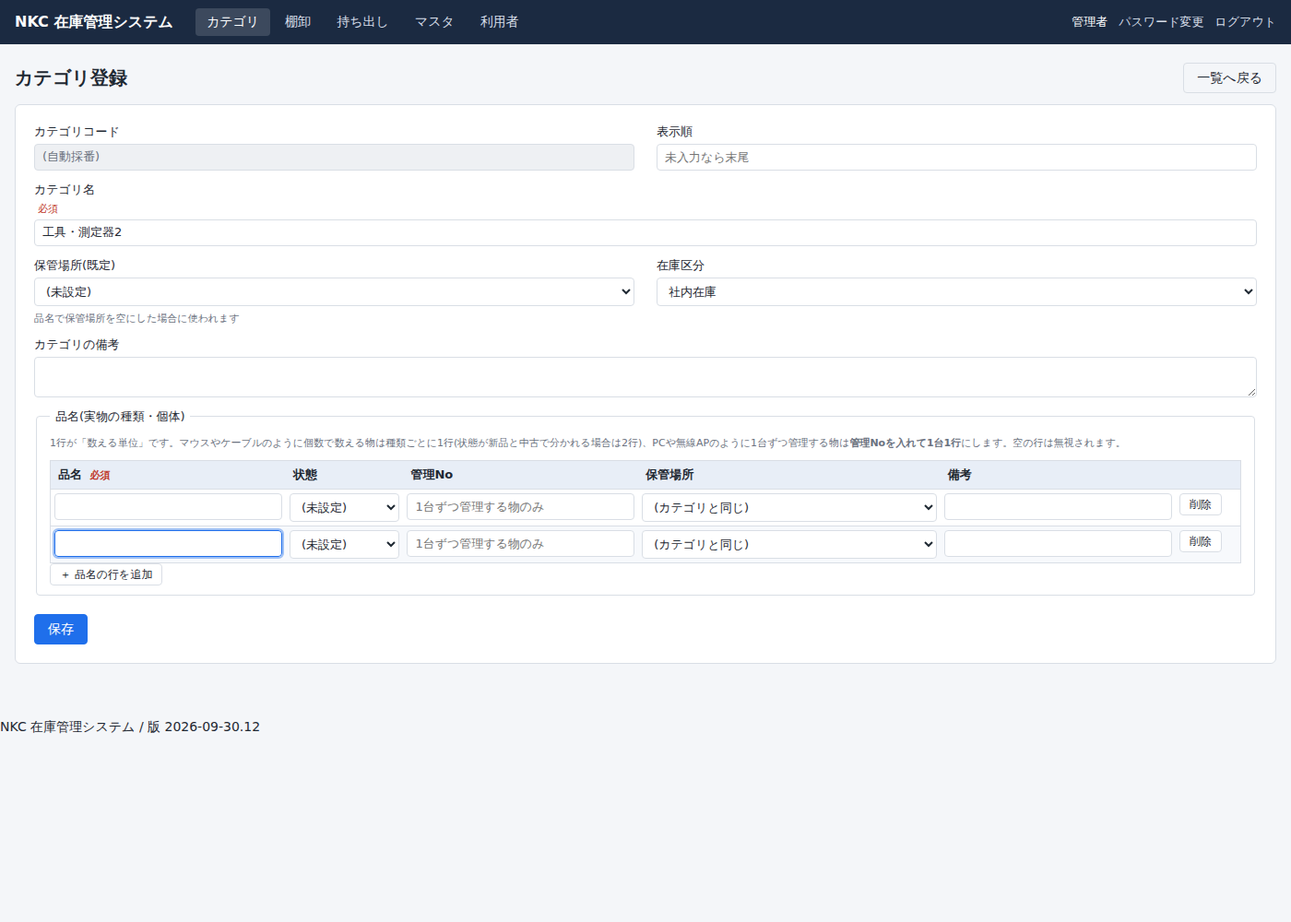
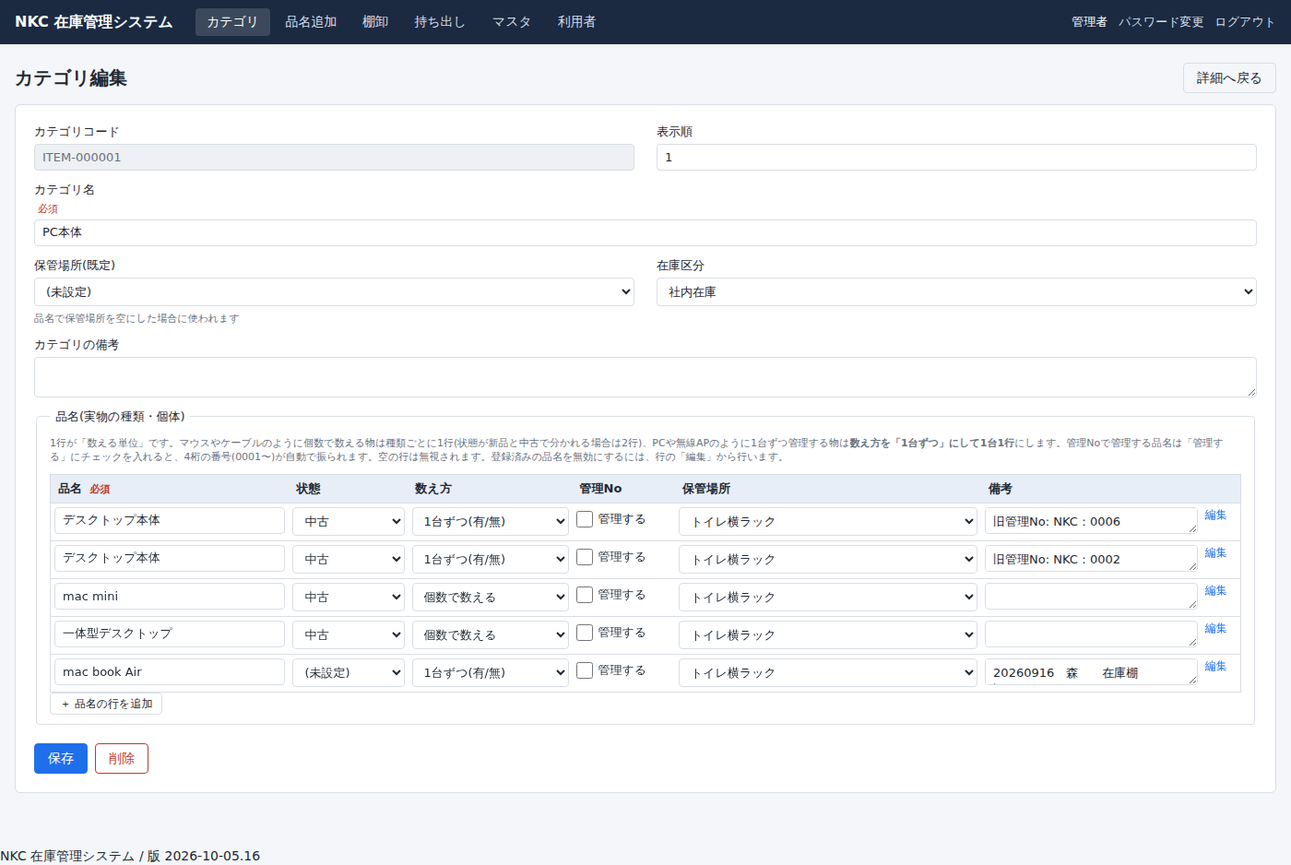
管理Noを空にし、「管理Noで管理する」チェックで4桁採番する方式に変更
- sql/009_clear_management_no.sql: 全品名の管理Noを空にし、空を許可(重複禁止は維持)
- 品名の追加・編集画面とカテゴリ登録・編集画面の品名行に「管理Noで管理する」チェック
  チェックで次の番号を自動採番、外すと番号を消す
- 表示は4桁ゼロ埋め(0001)。カテゴリ一覧の検索で「0001」のような番号でも探せる
- 版 2026-10-05.16

Claude-Session: https://claude.ai/code/session_01Ri3r8gT3MYmawSEEk5gsQq

diff --git a/webapp/assets/style.css b/webapp/assets/style.css
@@ -255,3 +255,7 @@ tr.entry-row.checked-row td:first-child { background: #e6f4ec; }
   .cards, .cards-4 { grid-template-columns: 1fr; }
   .userbox .username { display: none; }
 }
+
+/* フォーム内のチェック欄(管理Noで管理する など): チェックボックスと文言を左に並べる */
+.form-grid .inline-check, .table-units .inline-check { display: inline-flex; flex-direction: row; align-items: center; gap: 6px; width: auto; font-weight: normal; margin: 4px 0; }
+.form-grid .inline-check input[type=checkbox], .table-units .inline-check input[type=checkbox] { width: 18px; height: 18px; margin: 0; flex: none; }

diff --git a/webapp/app/views/items/form.php b/webapp/app/views/items/form.php
@@ -14,7 +14,7 @@
 
   <fieldset class="span2" id="unit-section">
     <legend>品名(実物の種類・個体)</legend>
-    <p class="hint">1行が「数える単位」です。マウスやケーブルのように個数で数える物は種類ごとに1行(状態が新品と中古で分かれる場合は2行)、PCや無線APのように1台ずつ管理する物は<strong>数え方を「1台ずつ」にして1台1行</strong>にします。管理Noは保存時に自動で振られます。空の行は無視されます。<?php if ($item['id']): ?>登録済みの品名を無効にするには、行の「編集」から行います。<?php endif; ?></p>
+    <p class="hint">1行が「数える単位」です。マウスやケーブルのように個数で数える物は種類ごとに1行(状態が新品と中古で分かれる場合は2行)、PCや無線APのように1台ずつ管理する物は<strong>数え方を「1台ずつ」にして1台1行</strong>にします。管理Noで管理する品名は「管理する」にチェックを入れると、4桁の番号(0001〜)が自動で振られます。空の行は無視されます。<?php if ($item['id']): ?>登録済みの品名を無効にするには、行の「編集」から行います。<?php endif; ?></p>
     <div class="table-wrap"><table class="table table-units" id="unit-table">
       <thead><tr><th>品名 <span class="req">必須</span></th><th>状態</th><th>数え方</th><th>管理No</th><th>保管場所</th><th>備考</th><th></th></tr></thead>
       <tbody>
@@ -23,7 +23,7 @@
           <td><input type="hidden" name="units[<?= $ri ?>][id]" value="<?= h($u['id'] ?? '') ?>"><input type="text" name="units[<?= $ri ?>][name]" value="<?= h($u['name'] ?? '') ?>" maxlength="200" class="w-name"></td>
           <td><select name="units[<?= $ri ?>][condition_code]"><option value="">(未設定)</option><?php foreach ($conditions as $c): ?><option value="<?= h($c['code']) ?>" <?= ($u['condition_code'] ?? null) === $c['code'] ? 'selected' : '' ?>><?= h($c['name']) ?></option><?php endforeach; ?></select></td>
           <td><select name="units[<?= $ri ?>][count_mode]"><?php foreach (count_mode_options() as $k => $v): ?><option value="<?= h($k) ?>" <?= ($u['count_mode'] ?? 'quantity') === $k ? 'selected' : '' ?>><?= h($v) ?></option><?php endforeach; ?></select></td>
-          <td class="muted"><?= !empty($u['management_no']) ? h($u['management_no']) : '自動' ?></td>
+          <td class="nowrap"><label class="inline-check"><input type="checkbox" name="units[<?= $ri ?>][use_management_no]" value="1" <?= (array_key_exists('use_management_no', $u) ? $u['use_management_no'] : !empty($u['management_no'])) ? 'checked' : '' ?>> 管理する</label><?= !empty($u['management_no']) ? ' <span class="muted">' . h(fmt_management_no($u['management_no'])) . '</span>' : '' ?></td>
           <td><select name="units[<?= $ri ?>][location_id]"><option value="">(カテゴリと同じ)</option><?php foreach ($locations as $l): ?><option value="<?= h($l['id']) ?>" <?= ($u['location_id'] ?? null) == $l['id'] ? 'selected' : '' ?>><?= h($l['name']) ?></option><?php endforeach; ?></select></td>
           <td><textarea name="units[<?= $ri ?>][notes]" rows="1" maxlength="2000"><?= h($u['notes'] ?? '') ?></textarea><input type="hidden" name="units[<?= $ri ?>][status]" value="<?= h($u['status'] ?? 'in_stock') ?>"></td>
           <td class="nowrap"><?= !empty($u['id']) ? '<a class="small" href="' . h(url('unit', ['action' => 'edit', 'id' => $u['id']])) . '">編集</a>' : '<button type="button" class="btn btn-sm unit-remove">削除</button>' ?></td>
@@ -36,7 +36,7 @@
         <td><input type="hidden" name="units[__i__][id]" value=""><input type="text" name="units[__i__][name]" maxlength="200" class="w-name"></td>
         <td><select name="units[__i__][condition_code]"><option value="">(未設定)</option><?php foreach ($conditions as $c): ?><option value="<?= h($c['code']) ?>"><?= h($c['name']) ?></option><?php endforeach; ?></select></td>
         <td><select name="units[__i__][count_mode]"><?php foreach (count_mode_options() as $k => $v): ?><option value="<?= h($k) ?>"><?= h($v) ?></option><?php endforeach; ?></select></td>
-        <td class="muted">自動</td>
+        <td class="nowrap"><label class="inline-check"><input type="checkbox" name="units[__i__][use_management_no]" value="1"> 管理する</label></td>
         <td><select name="units[__i__][location_id]"><option value="">(カテゴリと同じ)</option><?php foreach ($locations as $l): ?><option value="<?= h($l['id']) ?>"><?= h($l['name']) ?></option><?php endforeach; ?></select></td>
         <td><textarea name="units[__i__][notes]" rows="1" maxlength="2000"></textarea><input type="hidden" name="units[__i__][status]" value="in_stock"></td>
         <td class="nowrap"><button type="button" class="btn btn-sm unit-remove">削除</button></td>

diff --git a/webapp/app/controllers/units.php b/webapp/app/controllers/units.php
@@ -40,6 +40,7 @@ function unit_values_from_post(array &$errors): array
         'name'           => input_str('name', null, 200),
         'condition_code' => input_str('condition_code', null, 20),
         'count_mode'     => input_str('count_mode', null, 20) ?? 'quantity',
+        'use_management_no' => isset($_POST['use_management_no']),
         'customer_id'    => input_int('customer_id'),
         'status'         => input_str('status', null, 20) ?? 'in_stock',
         'location_id'    => input_int('location_id'),
@@ -81,15 +82,15 @@ if ($action === 'create' && $_SERVER['REQUEST_METHOD'] === 'POST') {
     $errors = [];
     $v = unit_values_from_post($errors);
     if ($errors) {
-        render('units/form', ['title' => '品名追加', 'unit' => $v + ['id' => null, 'is_active' => 1], 'item' => null, 'locations' => $locations, 'conditions' => $conditions, 'customers' => $customers, 'itemsForMove' => $itemsForMove, 'errors' => $errors]);
+        render('units/form', ['title' => '品名追加', 'unit' => $v + ['id' => null, 'is_active' => 1, 'management_no' => null], 'item' => null, 'locations' => $locations, 'conditions' => $conditions, 'customers' => $customers, 'itemsForMove' => $itemsForMove, 'errors' => $errors]);
         exit;
     }
     $sort = $v['sort_order'] ?? ((int)db_val('SELECT COALESCE(MAX(sort_order),0) FROM inventory_units WHERE item_id = ?', [$v['item_id']]) + 10);
-    $no = next_management_no();
+    $no = management_no_for($v['use_management_no'], null);
     db_insert('INSERT INTO inventory_units (item_id, name, condition_code, count_mode, management_no, customer_id, status, location_id, notes, is_active, sort_order, created_by, updated_by)
                VALUES (?, ?, ?, ?, ?, ?, ?, ?, ?, 1, ?, ?, ?)',
         [$v['item_id'], $v['name'], $v['condition_code'], $v['count_mode'], $no, $v['customer_id'], $v['status'], $v['location_id'], $v['notes'], $sort, actor_name(), actor_name()]);
-    flash_set('success', '品名「' . $v['name'] . '」を追加しました(管理No ' . $no . ')。');
+    flash_set('success', '品名「' . $v['name'] . '」を追加しました。' . ($no ? '(管理No ' . fmt_management_no($no) . ')' : ''));
     if (input_str('continue') !== null) {
         redirect('unit', ['action' => 'new', 'item_id' => $v['item_id']]);
     }
@@ -114,8 +115,8 @@ if ($action === 'save' && $_SERVER['REQUEST_METHOD'] === 'POST') {
                               'deleteBlockers' => unit_delete_blockers((int)$unit['id']), 'errors' => $errors]);
         exit;
     }
-    db_exec('UPDATE inventory_units SET name=?, condition_code=?, count_mode=?, customer_id=?, status=?, location_id=?, notes=?, sort_order=?, updated_by=? WHERE id=?',
-        [$v['name'], $v['condition_code'], $v['count_mode'], $v['customer_id'], $v['status'], $v['location_id'], $v['notes'],
+    db_exec('UPDATE inventory_units SET name=?, condition_code=?, count_mode=?, management_no=?, customer_id=?, status=?, location_id=?, notes=?, sort_order=?, updated_by=? WHERE id=?',
+        [$v['name'], $v['condition_code'], $v['count_mode'], management_no_for($v['use_management_no'], $unit['management_no']), $v['customer_id'], $v['status'], $v['location_id'], $v['notes'],
          $v['sort_order'] ?? (int)$unit['sort_order'], actor_name(), $unit['id']]);
     $moved = (int)$v['item_id'] !== (int)$unit['item_id'];
     if ($moved) {

diff --git a/webapp/app/views/checkout/index.php b/webapp/app/views/checkout/index.php
@@ -21,8 +21,8 @@
     <select name="unit_id" id="unit-select" required>
       <option value="">先にカテゴリを選択してください</option>
       <?php foreach ($units as $iid => $list): foreach ($list as $u): $isUnit = unit_is_single($u); ?>
-        <option value="<?= h($u['id']) ?>" data-item="<?= h($iid) ?>" data-unit="<?= $isUnit ? '1' : '0' ?>" data-text="<?= h(mb_strtolower(($u['name'] ?? '') . ' ' . ($u['management_no'] ?? ''))) ?>" <?= ($isUnit && (int)$u['open_count']) ? 'disabled' : '' ?>>
-          <?= h($u['name'] ?? '(品名なし)') ?><?= $u['condition_name'] ? '(' . h($u['condition_name']) . ')' : '' ?><?= ' [No.' . h($u['management_no']) . ']' ?><?= ($isUnit && (int)$u['open_count']) ? '(持ち出し中)' : '' ?>
+        <option value="<?= h($u['id']) ?>" data-item="<?= h($iid) ?>" data-unit="<?= $isUnit ? '1' : '0' ?>" data-text="<?= h(mb_strtolower(($u['name'] ?? '') . ' ' . fmt_management_no($u['management_no'] ?? null))) ?>" <?= ($isUnit && (int)$u['open_count']) ? 'disabled' : '' ?>>
+          <?= h($u['name'] ?? '(品名なし)') ?><?= $u['condition_name'] ? '(' . h($u['condition_name']) . ')' : '' ?><?= $u['management_no'] ? ' [No.' . h(fmt_management_no($u['management_no'])) . ']' : '' ?><?= ($isUnit && (int)$u['open_count']) ? '(持ち出し中)' : '' ?>
         </option>
       <?php endforeach; endforeach; ?>
     </select>
@@ -50,7 +50,7 @@
   <?php foreach ($open as $co): ?>
     <div class="card card-row">
       <div>
-        <div class="card-title"><?= h($co['unit_name'] ?? $co['item_name']) ?><?= $co['management_no'] ? ' <span class="badge">No.' . h($co['management_no']) . '</span>' : '' ?><?= (int)$co['quantity'] !== 1 ? ' ×' . (int)$co['quantity'] : '' ?> <small class="muted"><?= h($co['item_name']) ?></small></div>
+        <div class="card-title"><?= h($co['unit_name'] ?? $co['item_name']) ?><?= $co['management_no'] ? ' <span class="badge">No.' . h(fmt_management_no($co['management_no'])) . '</span>' : '' ?><?= (int)$co['quantity'] !== 1 ? ' ×' . (int)$co['quantity'] : '' ?> <small class="muted"><?= h($co['item_name']) ?></small></div>
         <div class="card-sub"><?= h($co['checked_out_by_name'] ?: '(名前なし)') ?> ・ <?= h(fmt_datetime($co['checked_out_at'])) ?><?= $co['notes'] ? ' ・ ' . h($co['notes']) : '' ?></div>
       </div>
       <form method="post" action="<?= h(url('checkout', ['action' => 'in'])) ?>" data-confirm="「<?= h($co['unit_name'] ?? $co['item_name']) ?>」を戻しにしますか?">
@@ -68,7 +68,7 @@
   <?php foreach ($recent as $co): ?>
     <div class="card card-row">
       <div>
-        <div class="card-title"><?= h($co['unit_name'] ?? $co['item_name']) ?><?= $co['management_no'] ? ' <span class="badge">No.' . h($co['management_no']) . '</span>' : '' ?><?= (int)$co['quantity'] !== 1 ? ' ×' . (int)$co['quantity'] : '' ?></div>
+        <div class="card-title"><?= h($co['unit_name'] ?? $co['item_name']) ?><?= $co['management_no'] ? ' <span class="badge">No.' . h(fmt_management_no($co['management_no'])) . '</span>' : '' ?><?= (int)$co['quantity'] !== 1 ? ' ×' . (int)$co['quantity'] : '' ?></div>
         <div class="card-sub"><?= h($co['checked_out_by_name'] ?: '(名前なし)') ?> ・ 持出 <?= h(fmt_datetime($co['checked_out_at'])) ?> → 戻し <?= h(fmt_datetime($co['returned_at'])) ?></div>
       </div>
     </div>

diff --git a/webapp/app/controllers/items.php b/webapp/app/controllers/items.php
@@ -53,6 +53,10 @@ if ($page === 'items') {
         $like = '%' . $f['q'] . '%';
         $uw[] = '(u.name LIKE ? OR u.management_no LIKE ? OR u.serial_number LIKE ? OR u.manufacturer LIKE ? OR u.model_number LIKE ? OR u.notes LIKE ? OR i.item_name LIKE ? OR i.item_code LIKE ?)';
         array_push($up, $like, $like, $like, $like, $like, $like, $like, $like);
+        if (preg_match('/^\d{1,9}$/', $f['q'])) {
+            $uw[count($uw) - 1] = '(' . $uw[count($uw) - 1] . ' OR u.management_no = ?)';
+            $up[] = (int)$f['q'];
+        }
     }
     if ($f['location'] !== null) { $uw[] = 'COALESCE(u.location_id, i.location_id) = ?'; $up[] = $f['location']; }
     if ($f['condition'] !== null) {
@@ -175,6 +179,7 @@ function item_units_from_post(array &$errors): array
             'name'           => input_str('name', $r, 200),
             'condition_code' => input_str('condition_code', $r, 20),
             'count_mode'     => input_str('count_mode', $r, 20) ?? 'quantity',
+            'use_management_no' => !empty($r['use_management_no']),
             'status'         => input_str('status', $r, 20) ?? 'in_stock',
             'location_id'    => input_int('location_id', $r),
             'notes'          => input_str('notes', $r, 2000),
@@ -210,14 +215,15 @@ function item_units_save(int $itemId, array $rows): int
     $sort = (int)db_val('SELECT COALESCE(MAX(sort_order),0) FROM inventory_units WHERE item_id = ?', [$itemId]);
     foreach ($rows as $u) {
         if ($u['id'] !== null) {
-            db_exec('UPDATE inventory_units SET name=?, condition_code=?, count_mode=?, status=?, location_id=?, notes=?, updated_by=?
+            $cur = db_val('SELECT management_no FROM inventory_units WHERE id = ? AND item_id = ?', [$u['id'], $itemId]);
+            db_exec('UPDATE inventory_units SET name=?, condition_code=?, count_mode=?, management_no=?, status=?, location_id=?, notes=?, updated_by=?
                      WHERE id=? AND item_id=?',
-                [$u['name'], $u['condition_code'], $u['count_mode'], $u['status'], $u['location_id'], $u['notes'], actor_name(), $u['id'], $itemId]);
+                [$u['name'], $u['condition_code'], $u['count_mode'], management_no_for($u['use_management_no'], $cur), $u['status'], $u['location_id'], $u['notes'], actor_name(), $u['id'], $itemId]);
         } else {
             $sort += 10;
             db_insert('INSERT INTO inventory_units (item_id, name, condition_code, count_mode, management_no, status, location_id, notes, is_active, sort_order, created_by, updated_by)
                        VALUES (?, ?, ?, ?, ?, ?, ?, ?, 1, ?, ?, ?)',
-                [$itemId, $u['name'], $u['condition_code'], $u['count_mode'], next_management_no(), $u['status'], $u['location_id'], $u['notes'], $sort, actor_name(), actor_name()]);
+                [$itemId, $u['name'], $u['condition_code'], $u['count_mode'], management_no_for($u['use_management_no'], null), $u['status'], $u['location_id'], $u['notes'], $sort, actor_name(), actor_name()]);
             $added++;
         }
     }

diff --git a/webapp/app/views/units/form.php b/webapp/app/views/units/form.php
@@ -16,7 +16,7 @@
   <label>カテゴリ <span class="req">必須</span><select name="item_id" required><option value="">選択してください</option><?php foreach ($itemsForMove as $i): ?><option value="<?= h($i['id']) ?>" <?= (int)$i['id'] === (int)($unit['item_id'] ?? 0) ? 'selected' : '' ?>><?= h($i['item_name']) ?></option><?php endforeach; ?></select><?php if ($unit['id']): ?><small class="hint">変更すると、この品名をそのカテゴリへ移します(棚卸履歴・持ち出し記録も一緒に移ります)</small><?php endif; ?></label>
   <label>品名 <span class="req">必須</span><input type="text" name="name" value="<?= h($unit['name']) ?>" required maxlength="200"></label>
   <label>状態(新品/中古)<select name="condition_code"><option value="">(未設定)</option><?php foreach ($conditions as $c): ?><option value="<?= h($c['code']) ?>" <?= ($unit['condition_code'] ?? null) === $c['code'] ? 'selected' : '' ?>><?= h($c['name']) ?></option><?php endforeach; ?></select></label>
-  <label>管理No<input type="text" value="<?= !empty($unit['id']) && !empty($unit['management_no']) ? h($unit['management_no']) : '(追加時に自動で振られます)' ?>" disabled><small class="hint">重複しない番号を自動で振ります(変更はできません)</small></label>
+  <label>管理No<span class="inline-check"><input type="checkbox" name="use_management_no" value="1" <?= (array_key_exists('use_management_no', $unit) ? $unit['use_management_no'] : !empty($unit['management_no'])) ? 'checked' : '' ?>> 管理Noで管理する</span><?php if (!empty($unit['management_no'])): ?><strong>No.<?= h(fmt_management_no($unit['management_no'])) ?></strong><?php endif; ?><small class="hint">チェックすると4桁の番号(0001〜)を自動で振ります。外すと番号は消えます</small></label>
   <label>数え方<select name="count_mode"><?php foreach (count_mode_options() as $k => $v): ?><option value="<?= h($k) ?>" <?= ($unit['count_mode'] ?? 'quantity') === $k ? 'selected' : '' ?>><?= h($v) ?></option><?php endforeach; ?></select><small class="hint">「1台ずつ」は棚卸で有/無を選び、持ち出しも1台単位になります。ケーブルなど個数で数える物は「個数で数える」</small></label>
   <label>保管場所<select name="location_id"><option value="">(カテゴリと同じ)</option><?php foreach ($locations as $l): ?><option value="<?= h($l['id']) ?>" <?= ($unit['location_id'] ?? null) == $l['id'] ? 'selected' : '' ?>><?= h($l['name']) ?></option><?php endforeach; ?></select></label>
   <label>客先<select name="customer_id"><option value="">(なし)</option><?php foreach ($customers as $c): ?><option value="<?= h($c['id']) ?>" <?= ($unit['customer_id'] ?? null) == $c['id'] ? 'selected' : '' ?>><?= h($c['name']) ?></option><?php endforeach; ?></select></label>

diff --git a/webapp/app/views/counts/entry.php b/webapp/app/views/counts/entry.php
@@ -90,10 +90,10 @@ $actionButtons = function () use ($count, $editable) {
       <td colspan="2" data-label=""></td>
     </tr>
     <?php foreach ($grp['units'] as $u): $uid = (int)$u['id']; $isUnit = unit_is_single($u); $n++; ?>
-    <tr class="entry-row <?= $u['counted_quantity'] === null ? 'unentered' : 'entered' ?> <?= (int)($u['is_checked'] ?? 0) ? 'checked-row' : '' ?> <?= $u['diff'] ? 'has-diff' : '' ?> <?= (int)$u['is_active'] ? '' : 'row-inactive' ?>" data-unit="<?= $uid ?>" data-item="<?= $iid ?>" data-cat="<?= $iid ?>" data-prev="<?= h($u['prev_quantity']) ?>" data-text="<?= h(mb_strtolower(($u['name'] ?? '') . ' ' . ($u['management_no'] ?? '') . ' ' . $it['item_name'])) ?>">
+    <tr class="entry-row <?= $u['counted_quantity'] === null ? 'unentered' : 'entered' ?> <?= (int)($u['is_checked'] ?? 0) ? 'checked-row' : '' ?> <?= $u['diff'] ? 'has-diff' : '' ?> <?= (int)$u['is_active'] ? '' : 'row-inactive' ?>" data-unit="<?= $uid ?>" data-item="<?= $iid ?>" data-cat="<?= $iid ?>" data-prev="<?= h($u['prev_quantity']) ?>" data-text="<?= h(mb_strtolower(($u['name'] ?? '') . ' ' . fmt_management_no($u['management_no'] ?? null) . ' ' . $it['item_name'])) ?>">
       <td data-label="確認"><?php if ($editable): ?><input type="checkbox" name="checked[<?= $uid ?>]" value="1" class="check-input" <?= (int)($u['is_checked'] ?? 0) ? 'checked' : '' ?> title="確認済みにチェック"><?php else: ?><?= (int)($u['is_checked'] ?? 0) ? '✓' : '' ?><?php endif; ?></td>
       <td class="num" data-label="#"><?= $n ?></td>
-      <td data-label="品名"><span class="item-name"><?= $u['name'] === null ? '<span class="muted">(品名なし)</span>' : h($u['name']) ?></span><?= $u['management_no'] ? ' <span class="badge">No.' . h($u['management_no']) . '</span>' : '' ?><?= (int)$u['is_active'] ? '' : ' <span class="badge badge-off">無効</span>' ?>
+      <td data-label="品名"><span class="item-name"><?= $u['name'] === null ? '<span class="muted">(品名なし)</span>' : h($u['name']) ?></span><?= $u['management_no'] ? ' <span class="badge">No.' . h(fmt_management_no($u['management_no'])) . '</span>' : '' ?><?= (int)$u['is_active'] ? '' : ' <span class="badge badge-off">無効</span>' ?>
         <?php if ($editable): ?><input type="hidden" name="touched[<?= $uid ?>]" value="1"><?php endif; ?></td>
       <td data-label="状態"><?= h(condition_name($u['condition_code'])) ?></td>
       <td data-label="保管場所"><?= h($u['location_name']) ?></td>

diff --git a/webapp/app/views/items/detail.php b/webapp/app/views/items/detail.php
@@ -51,7 +51,7 @@
       <tr class="<?= (int)$u['is_active'] ? '' : 'row-inactive' ?>">
         <td data-label="品名"><?= $u['name'] === null ? '<span class="muted">(品名なし)</span>' : h($u['name']) ?><?= (int)$u['is_active'] ? '' : ' <span class="badge badge-off">無効</span>' ?><?= $u['source_excel_rows'] ? '<br><small class="muted">Excel ' . h(str_replace(';', '、', $u['source_excel_rows'])) . ' 行目</small>' : '' ?></td>
         <td data-label="状態"><?= h(condition_name($u['condition_code'])) ?></td>
-        <td data-label="管理No"><?= h($u['management_no']) ?><?= $u['status'] !== 'in_stock' ? ' <span class="badge">' . h(unit_status_label($u['status'])) . '</span>' : '' ?></td>
+        <td data-label="管理No"><?= h(fmt_management_no($u['management_no'])) ?><?= $u['status'] !== 'in_stock' ? ' <span class="badge">' . h(unit_status_label($u['status'])) . '</span>' : '' ?></td>
         <td data-label="保管場所"><?= h($u['location_name'] ?? '') ?: '<span class="muted">(カテゴリと同じ)</span>' ?></td>
         <td class="num" data-label="棚卸数"><?= $us['latest_qty'] === null ? '<span class="muted">–</span>' : h($us['latest_qty']) ?></td>
         <td class="num" data-label="現在庫"><?= $us['current'] === null ? '<span class="muted">–</span>' : '<strong>' . h($us['current']) . '</strong>' ?></td>

diff --git a/webapp/app/views/dashboard.php b/webapp/app/views/dashboard.php
@@ -44,7 +44,7 @@
       <tr>
         <td><?= h($co['unit_name'] ?? '') ?></td>
         <td><a href="<?= h(url('item', ['id' => $co['item_id']])) ?>"><?= h($item_name_tmp = $co['item_name'] ?? $co['item_code']) ?></a></td>
-        <td><?= $co['management_no'] ? 'No.' . h($co['management_no']) : '' ?><?= ($co['count_mode'] ?? '') === 'single' ? '' : ' ×' . h($co['quantity']) ?></td>
+        <td><?= $co['management_no'] ? 'No.' . h(fmt_management_no($co['management_no'])) : '' ?><?= ($co['count_mode'] ?? '') === 'single' ? '' : ' ×' . h($co['quantity']) ?></td>
         <td><?= h($co['checked_out_by_name']) ?></td>
         <td><?= h(fmt_datetime($co['checked_out_at'])) ?></td>
         <td><?= h($co['notes']) ?></td>
@@ -65,7 +65,7 @@
         <td><?= $u['name'] === null ? '<span class="muted">(品名なし)</span>' : h($u['name']) ?></td>
         <td><a href="<?= h(url('item', ['id' => $u['item_id']])) ?>"><?= h($u['item_name']) ?></a></td>
         <td><?= h(condition_name($u['condition_code'])) ?></td>
-        <td><?= h($u['management_no']) ?></td>
+        <td><?= h(fmt_management_no($u['management_no'])) ?></td>
         <td><?= h($u['location_name']) ?></td>
         <td><?= h(fmt_datetime($u['updated_at'])) ?></td>
         <td><?= h($u['updated_by']) ?></td>

diff --git a/webapp/app/views/items/list.php b/webapp/app/views/items/list.php
@@ -35,7 +35,7 @@
       <tr class="unit-line" data-item="<?= $iid ?>">
         <td data-label="品名"><?= $u['name'] === null ? '<span class="muted">(品名なし)</span>' : h($u['name']) ?></td>
         <td data-label="状態"><?= h(condition_name($u['condition_code'])) ?></td>
-        <td data-label="管理No"><?= h($u['management_no']) ?><?= $u['status'] !== 'in_stock' ? ' <span class="badge">' . h(unit_status_label($u['status'])) . '</span>' : '' ?></td>
+        <td data-label="管理No"><?= h(fmt_management_no($u['management_no'])) ?><?= $u['status'] !== 'in_stock' ? ' <span class="badge">' . h(unit_status_label($u['status'])) . '</span>' : '' ?></td>
         <td data-label="保管場所"><?= h($u['location_name']) ?></td>
         <td class="num" data-label="棚卸数"><?= $us['latest_qty'] === null ? '<span class="muted">–</span>' : h($us['latest_qty']) ?></td>
         <td class="num" data-label="現在庫"><?= $us['current'] === null ? '<span class="muted">–</span>' : '<strong>' . h($us['current']) . '</strong>' ?></td>

diff --git a/webapp/app/lib/stock.php b/webapp/app/lib/stock.php
@@ -120,7 +120,7 @@ function checkout_label(array $co, bool $withUnit = true): string
     if ($withUnit) {
         $u = (string)($co['unit_name'] ?? '');
         if (!empty($co['management_no'])) {
-            $u .= ' [No.' . $co['management_no'] . ']';
+            $u .= ' [No.' . fmt_management_no($co['management_no']) . ']';
         }
         if ($u !== '') {
             $s = $u . ' → ' . $s;
@@ -137,7 +137,7 @@ function unit_label(array $u): string
         $name = '(品名なし)';
     }
     if (!empty($u['management_no'])) {
-        $name .= ' [No.' . $u['management_no'] . ']';
+        $name .= ' [No.' . fmt_management_no($u['management_no']) . ']';
     }
     return $name;
 }

diff --git a/webapp/app/lib/inventory.php b/webapp/app/lib/inventory.php
@@ -53,3 +53,18 @@ function unit_is_single(array $u): bool
 {
     return ($u['count_mode'] ?? 'quantity') === 'single';
 }
+
+/** 管理No の表示(4桁ゼロ埋め。空なら空文字) */
+function fmt_management_no($n): string
+{
+    return ($n === null || $n === '') ? '' : sprintf('%04d', (int)$n);
+}
+
+/** 管理Noで管理するか(チェック)に応じた保存値。既に番号があれば維持、無ければ採番、管理しないなら空 */
+function management_no_for(bool $use, $current): ?int
+{
+    if (!$use) {
+        return null;
+    }
+    return ($current !== null && $current !== '') ? (int)$current : next_management_no();
+}
